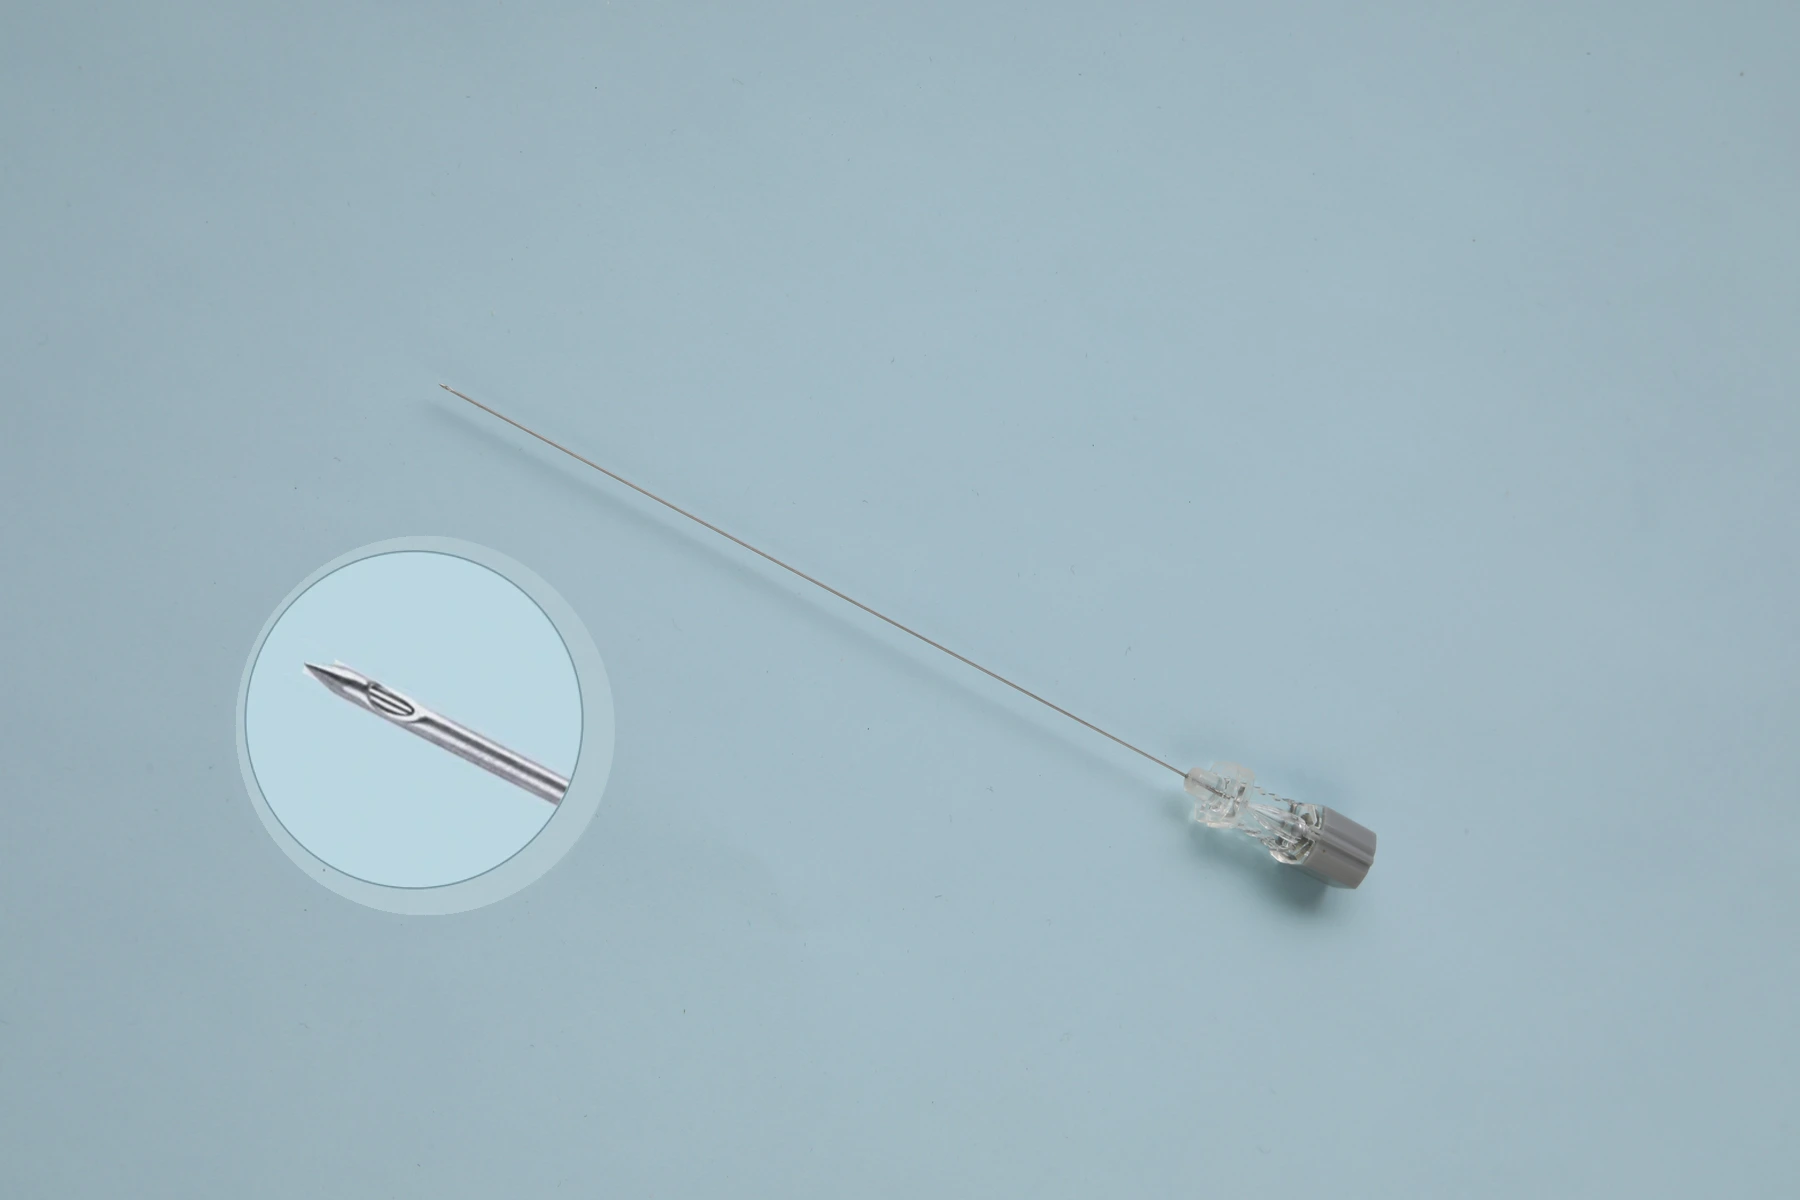
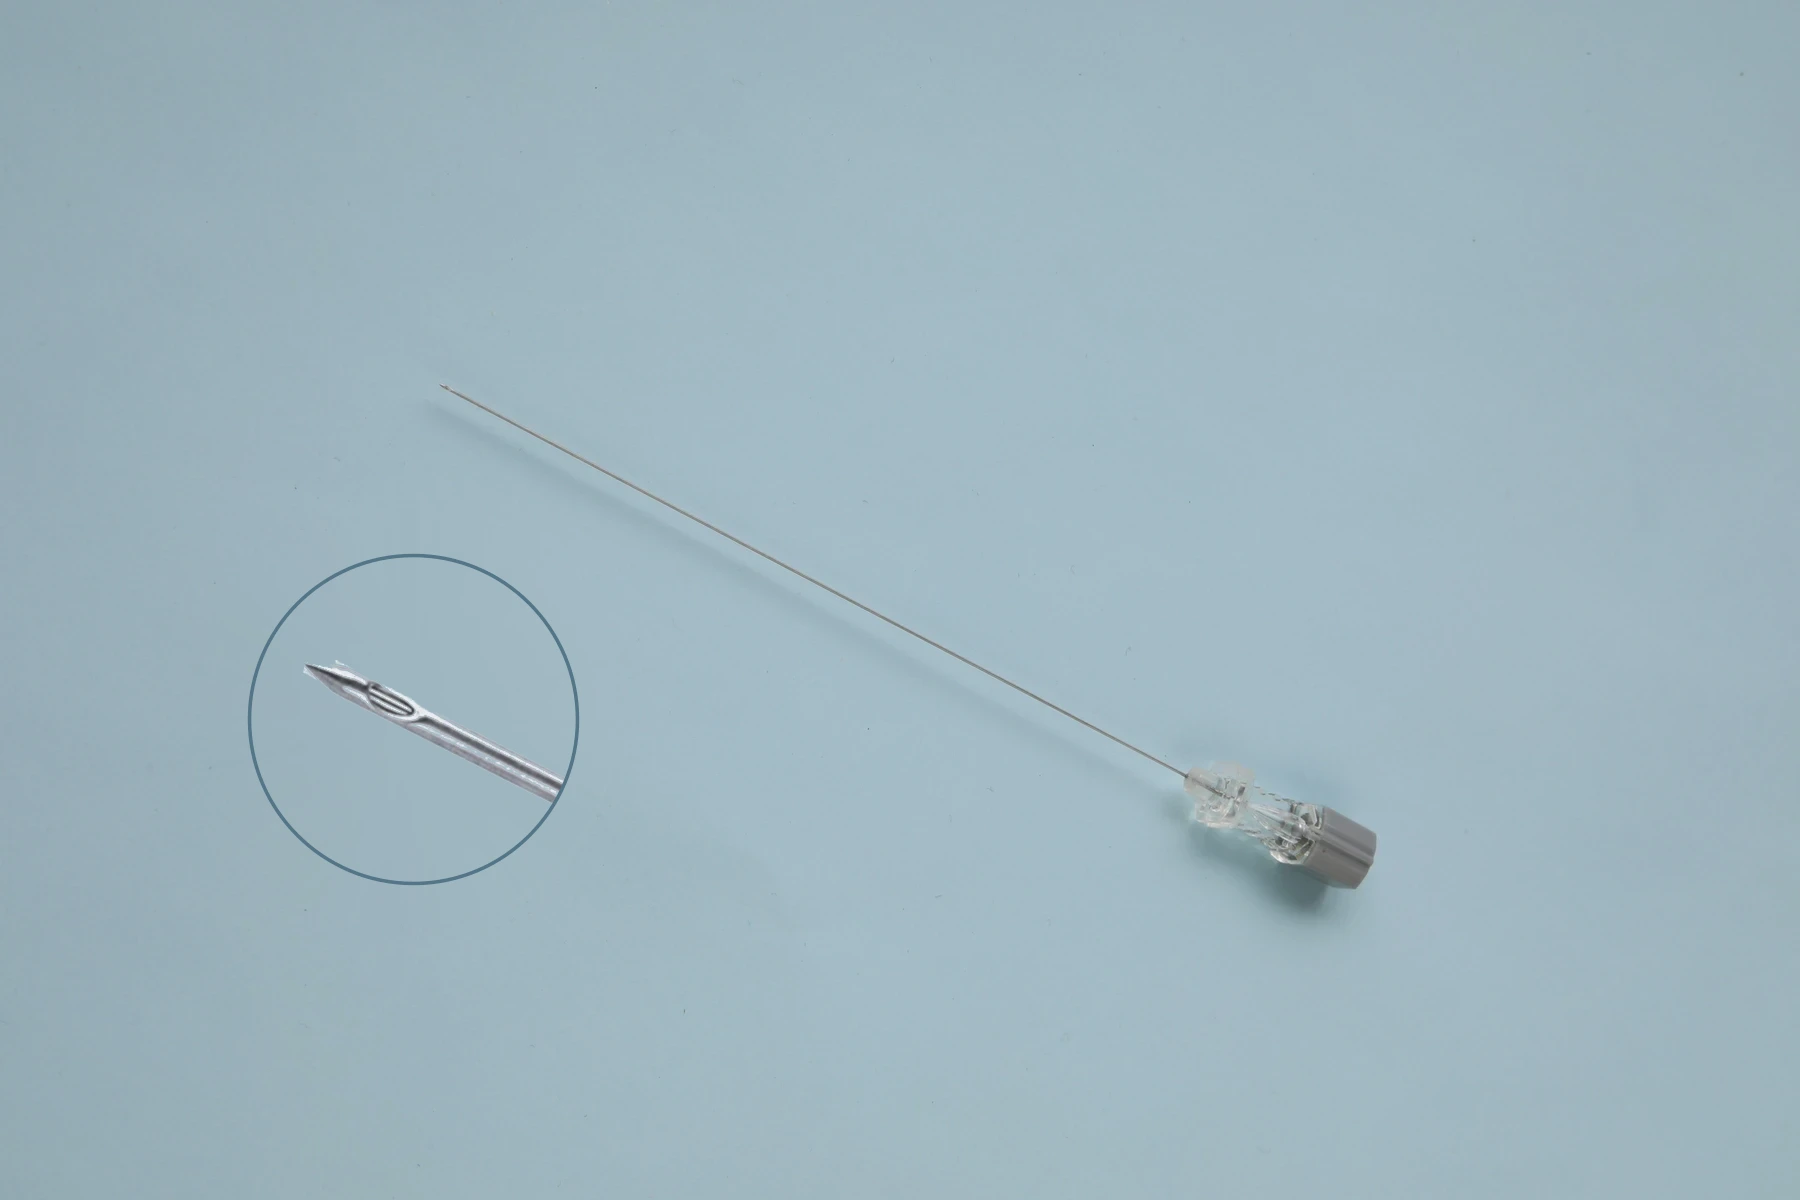
fix: refine Sprotte images, Chinese product/nav names and contact details

Changed region(s): [[0.1244, 0.4625, 0.3422, 0.74]]

diff --git a/lib/meeting-business-copy.ts b/lib/meeting-business-copy.ts
@@ -31,23 +31,24 @@ export const businessCopyZh:Record<string,string>={
  'Single-use Spinal Needle（Quincke Tip）':'一次性使用腰椎针（昆克针尖）',
  'Single-use Spinal Needle(Sprotte Tip)':'一次性使用腰椎针（Sprotte 针尖）',
  'Single-use Epidural Needle （Tuohy Tip）':'一次性使用硬膜外穿刺针（Tuohy 针尖）',
- 'Combined Spinal-Epidural Needle (CSE)':'腰硬联合穿刺针',
- 'Building 1, No. 78 Kangtai Road, Zhujiajiao Town, Qingpu District, Shanghai, China':'中国上海市青浦区朱家角镇康泰路 78 号 1 幢',
+ 'Combined Spinal-Epidural Needle (CSE)':'腰硬联合麻醉套针',
+ 'No. 78 Kangtai Road, Qingpu District, Shanghai, China':'中国上海市青浦区康泰路78号',
+ 'Building 1, No. 78 Kangtai Road, Zhujiajiao Town, Qingpu District, Shanghai, China':'中国上海市青浦区康泰路78号',
  'Industry, product and company information.':'行业、产品与企业资讯。',
  'RF Electrode — K152642':'射频电极 — K152642','RF Cannula — K112231':'射频套管 — K112231',
  'VC-S RF Cannula — K191293':'VC-S 射频套管 — K191293',
  'Spinal & Epidural Needles — K131006':'腰椎针与硬膜外穿刺针 — K131006',
  'EC Certificate':'EC 证书','MDD Certificate Continuation Letter':'MDD 证书延续函',
- 'Bone Marrow Biopsy Components (Type II)':'骨髓活检组件（II 型）',
- 'Bone Marrow Biopsy Components (Type III)':'骨髓活检组件（III 型）',
- 'Rotating Cut Biopsy Components':'旋切活检组件',
+ 'Bone Marrow Biopsy Components (Type II)':'骨髓活检针组件（II 型）',
+ 'Bone Marrow Biopsy Components (Type III)':'骨髓活检针组件（III 型）',
+ 'Rotating Cut Biopsy Components':'旋切式活检针组件',
  'Inquire About This Product →':'咨询此产品 →','Product specifications':'产品规格',
  'Combination part number':'组合品号','Electrode part number':'电极品号','Cannula part number':'套管品号',
  'Electrode diameter':'电极直径','Cannula diameter':'套管直径','Working length (mm)':'工作长度（毫米）',
  'Active tip length (mm)':'活性端长度（毫米）','Tip structure':'针尖结构','Electrode model':'电极型号',
  'Electrode specification':'电极规格','Compatible cannula length (mm)':'适配套管长度（毫米）',
  'Cannula model':'套管型号','Specification':'规格','Nominal working length (mm)':'标称工作长度（毫米）',
- 'OEM Manufacturing':'OEM 成品代工','Branded Medical Needle Products':'品牌医疗针类产品',
+ 'OEM Manufacturing':'定牌生产','Branded Medical Needle Products':'品牌医疗针类产品',
  'Tell us your product or cooperation requirements':'告诉我们您的产品或合作需求',
  'Send your product name or model and describe your requirements.':'请提供产品名称或型号，并说明您的需求。',
  'Manufacturing Technology & Equipment':'生产工艺与设备','Quality Inspection Instruments':'质量检测仪器',
@@ -65,9 +66,9 @@ export const businessCopyZh:Record<string,string>={
  'Every product upholds our brand commitment to compliance and quality':'每一款产品，都承载着我们对合规与品质的承诺',
  'Every OEM project empowers partners with proven technology and production lines':'每一个 OEM 项目，都以成熟技术与产线能力助力合作伙伴',
  'Every batch of custom accessories brings your functional and quality vision to life':'每一批定制配件，都让您的功能与品质设想落地',
- 'Home':'首页','About Us':'关于我们','Branded Products':'品牌产品','OEM':'OEM 成品代工','Custom Accessories':'配件定制','Contact Us':'联系我们',
+ 'Home':'首页','About Us':'关于我们','Branded Products':'品牌产品','OEM':'定牌生产','Custom Accessories':'配件定制','Contact Us':'联系我们',
  'RF Pain Therapy Series':'射频疼痛治疗系列','Neuraxial Anesthesia Series':'椎管内麻醉系列','Interventional Therapy Series':'介入治疗系列',
- 'Bone Marrow Biopsy Series':'骨髓活检系列','Visceral Biopsy Series':'内脏活检系列','Ultrasound Guidance Solutions':'超声引导系列','Tip Structure Solutions':'针尖结构系列','End Structure Solutions':'管端结构系列',
+ 'Bone Marrow Biopsy Series':'骨髓活检系列','Visceral Biopsy Series':'内脏活检系列','Ultrasound Guidance Solutions':'超声引导系列','Tip Structure Solutions':'针尖结构系列','End Structure Solutions':'尾端结构系列',
  'Information':'资讯','Industry Information':'行业资讯','Corporate Information':'企业资讯','Product Information':'产品资讯','All Information':'全部资讯','View Information →':'查看资讯 →',
  'Company Introduction':'企业简介','Qualifications':'资质证书','Manufacturing Equipment & Inspection Instruments':'技术设备、质检仪器','Single-use RF Cannulas':'一次性射频套管',
  [manufacturingIntro]:'生产区域设有装配工作台及用于部分制造工序的设备。装配以人工操作为主，自动化打印设备用于相应生产环节。',

diff --git a/components/site-footer.tsx b/components/site-footer.tsx
@@ -4,4 +4,4 @@ import Link from '@/components/localized-link'
 import {BrandLogo} from '@/components/brand-logo'
 import {ContactDetails} from '@/components/contact-details'
 import {navigation} from '@/lib/site-navigation'
-export function SiteFooter(){const brand=useSiteBrand(),{locale}=useSiteLanguage(),zh=locale.startsWith('zh');return <footer className="feedback-footer border-t border-border bg-brand-blue-deep text-white"><div className="medical-shell py-12"><div className="feedback-footer-grid"><div><BrandLogo size="footer"/><p className="mt-6 max-w-sm leading-7 text-white/85"><SiteText value={brand.address}/></p></div><nav aria-label={zh?'页脚导航':'Footer'}><h2 className="mb-5 font-semibold"><SiteText value="Navigation"/></h2><ul>{navigation.map(item=><li key={item.href}><Link href={item.href}><SiteText value={item.label}/></Link></li>)}</ul></nav><div><h2 className="mb-5 font-semibold"><SiteText value="Contact Us"/></h2><div className="mb-3 grid justify-items-start gap-2"><a href="https://www.shbsmed.com" className="text-[#e1edf4] underline underline-offset-4">www.shbsmed.com</a><a href="https://www.shbsmed.com" aria-label={zh?'公司网站':'Company website'}><img src="/images/brand/website-qr.png" width={112} height={112} alt={zh?'明石医疗网站二维码':'QR code for www.shbsmed.com'} className="block size-28"/></a></div><ContactDetails showAddress={false}/></div></div><p className="mt-10 border-t border-white/20 pt-6 text-sm text-white/80">&copy; {new Date().getFullYear()} {brand.legalNameEn}{zh?'。版权所有。':'. All rights reserved.'}</p></div></footer>}
+export function SiteFooter(){const brand=useSiteBrand(),{locale}=useSiteLanguage(),zh=locale.startsWith('zh');return <footer className="feedback-footer border-t border-border bg-brand-blue-deep text-white"><div className="medical-shell py-12"><div className="feedback-footer-grid"><div><BrandLogo size="footer"/><p className="mt-6 max-w-sm leading-7 text-white/85"><SiteText value={brand.address}/></p></div><nav aria-label={zh?'页脚导航':'Footer'}><h2 className="mb-5 font-semibold"><SiteText value="Navigation"/></h2><ul>{navigation.map(item=><li key={item.href}><Link href={item.href}><SiteText value={item.label}/></Link></li>)}</ul></nav><div><h2 className="mb-5 font-semibold"><SiteText value="Contact Us"/></h2><div className="mb-3 grid justify-items-start gap-2"><a href="https://www.shbsmed.com" className="text-[#e1edf4] underline underline-offset-4">www.shbsmed.com</a><a href="https://www.shbsmed.com" aria-label={zh?'公司网站':'Company website'}><img src="/images/brand/website-qr.png" width={112} height={112} alt={zh?'明石医疗网站二维码':'QR code for www.shbsmed.com'} className="block size-28"/></a></div><ContactDetails showAddress={false} showWeb={false}/></div></div><p className="mt-10 border-t border-white/20 pt-6 text-sm text-white/80">&copy; {new Date().getFullYear()} {brand.legalNameEn}{zh?'。版权所有。':'. All rights reserved.'}</p></div></footer>}

diff --git a/lib/medical-products.ts b/lib/medical-products.ts
@@ -14,7 +14,7 @@ const previewNamesZh:Record<string,string>={
  'straight-sharp-rf-cannulas':'一次性使用射频套管（直尖形）','curved-sharp-rf-cannulas':'一次性使用射频套管（弯尖形）',
  'curved-blunt-rf-cannulas':'一次性使用射频套管（弯钝形）','side-port-rf-cannulas':'一次性使用射频套管（侧孔弯尖形）',
  'quincke-spinal-needle':'一次性使用腰椎针（昆克针尖）','sprotte-spinal-needle':'一次性使用腰椎针（Sprotte 针尖）',
- 'epidural-needle':'一次性使用硬膜外穿刺针（Tuohy 针尖）','combined-spinal-epidural-needle':'腰硬联合穿刺针',
+ 'epidural-needle':'一次性使用硬膜外穿刺针（Tuohy 针尖）','combined-spinal-epidural-needle':'腰硬联合麻醉套针',
 }
 export const getMedicalProducts=cache(async(language?:string):Promise<MedicalProduct[]>=>{
  const requestedLocale=language||await currentLocale()
@@ -65,5 +65,5 @@ export const getContractComponents=cache(async(language?:string)=>{
  const groups=(categories||[]).filter(c=>inCategoryBranch(c,categories||[],'contract-components'))
  const existing=(products||[]).filter(p=>groups.some(g=>g.slug===p.category_slug)).map(p=>{const group=groups.find(g=>g.slug===p.category_slug)!;return{slug:p.slug,name:localized(p.name_i18n,locale)||p.name,image:p.image_url,description:localized(p.description_i18n,locale)||p.description||'',group:localized(group.name_i18n,locale)||group.name,application:typeof p.extra_data?.application_category==='string'?p.extra_data.application_category:undefined}})
  const refined=new Set(['triangular-echogenic-surface','mesh-echogenic-surface','matte-echogenic-surface','back-hole-tip','pencil-point','ball-tip-side-hole','flared-end','reduced-end','knurled-end'])
- return (['preview','production'].includes(process.env.VERCEL_ENV ?? ''))?[...existing.map(p=>({...p,image:refined.has(p.slug)?`/images/feedback-20261112/accessory-edges/${p.slug}.webp`:p.image,name:(p.application==='bone-marrow'||/bone.marrow/i.test(p.name))&&!p.name.includes('(Type I)')?p.name+' (Type I)':p.name})),...additionalComponents]:existing
+ return (['preview','production'].includes(process.env.VERCEL_ENV ?? ''))?[...existing.map(p=>({...p,image:refined.has(p.slug)?`/images/feedback-20261112/accessory-edges/${p.slug}.webp`:p.image,name:!locale.startsWith('zh')&&(p.application==='bone-marrow'||/bone.marrow/i.test(p.name))&&!p.name.includes('(Type I)')?p.name+' (Type I)':p.name})),...additionalComponents]:existing
 })

diff --git a/components/contact-details.tsx b/components/contact-details.tsx
@@ -1,6 +1,8 @@
 'use client'
-import {useSiteBrand,SiteText,SiteImage} from '@/components/site-copy'
-export function ContactDetails({showAddress=true}:{showAddress?:boolean}){
- const brand=useSiteBrand()
- return <address className="contact-details not-italic">{showAddress&&<p><SiteText value={brand.address}/></p>}<p><span><SiteText value="Email"/>: </span><a href={`mailto:${brand.email}`}>{brand.email}</a></p>{brand.phone&&<p><span><SiteText value="Telephone"/>: </span><a href={`tel:${brand.phone.replace(/[^+\d]/g,'')}`}>{brand.phone}</a></p>}{brand.mobile&&<p><span><SiteText value="Mobile"/>: </span><a href={`tel:${brand.mobile.replace(/[^+\d]/g,'')}`}>{brand.mobile}</a></p>}{brand.wechatQr&&<figure><SiteImage src={brand.wechatQr} alt="WeChat QR code" className="wechat-qr"/><figcaption><SiteText value="WeChat"/></figcaption></figure>}</address>
+import {useSiteBrand,useSiteLanguage,SiteText,SiteImage} from '@/components/site-copy'
+export function ContactDetails({showAddress=true,showWeb=true}:{showAddress?:boolean;showWeb?:boolean}){
+ const brand=useSiteBrand(),{locale}=useSiteLanguage(),zh=locale.startsWith('zh')
+ const email=zh?'z13918734159@163.com':brand.email
+ const mobile=zh?'13482187255':brand.mobile
+ return <address className="contact-details not-italic">{showAddress&&<p><SiteText value={brand.address}/></p>}{mobile&&<p><span>Mobile: </span><a href={`tel:${mobile.replace(/[^+\d]/g,'')}`}>{mobile}</a></p>}<p><span>Email: </span><a href={`mailto:${email}`}>{email}</a></p>{zh&&showWeb&&<p><span>Web: </span><a href="https://www.shbsmed.com">www.shbsmed.com</a></p>}{brand.phone&&<p><span><SiteText value="Telephone"/>: </span><a href={`tel:${brand.phone.replace(/[^+\d]/g,'')}`}>{brand.phone}</a></p>}{brand.wechatQr&&<figure><SiteImage src={brand.wechatQr} alt="WeChat QR code" className="wechat-qr"/><figcaption><SiteText value="WeChat"/></figcaption></figure>}</address>
 }

diff --git a/components/enquiry-form.tsx b/components/enquiry-form.tsx
@@ -68,7 +68,7 @@ export function EnquiryForm({
           <select id="inquiryType" name="inquiryType" required defaultValue={defaultType==='ODM'?'OEM':inquiryTypes.includes(defaultType || '') ? defaultType : ''}
             className="h-11 w-full rounded-md border border-input bg-background px-3 text-sm focus-visible:outline-2 focus-visible:outline-offset-2 focus-visible:outline-brand-blue">
             <option value="" disabled>{t('Select an inquiry type','请选择询盘类型')}</option>
-            {inquiryTypes.map(type => <option key={type} value={type}>{zh?({'Product purchase':'产品采购','OEM':'OEM 成品代工','Contract manufacturing':'配件代工'} as Record<string,string>)[type]||type:type}</option>)}
+            {inquiryTypes.map(type => <option key={type} value={type}>{zh?({'Product purchase':'产品采购','OEM':'定牌生产','Contract manufacturing':'配件代工'} as Record<string,string>)[type]||type:type}</option>)}
           </select>
         </Field>
 

diff --git a/app/globals.css b/app/globals.css
@@ -562,6 +562,7 @@
 /* Customer feedback 261106: equal image stages, full products, left captions. */
 .feedback-product-grid .medical-card-image:has(img){height:280px;aspect-ratio:auto;background:#bbd6e1}
 .feedback-product-grid .medical-card-image img{display:block;width:100%;height:100%;object-fit:contain}
+.feedback-product-grid .medical-card-image img[src*='sprotte-card']{object-fit:cover}
 .feedback-series-section .meeting-gallery figcaption{text-align:left}
 .page-back-button{position:fixed;right:16px;bottom:max(20px,env(safe-area-inset-bottom));z-index:40;display:flex;flex-direction:column;justify-content:center;align-items:center;gap:2px;width:54px;height:54px;padding:0;border:1px solid #d8dfe3;border-radius:50%;background:#fff;color:#173e53;font-size:11px;line-height:14px;box-shadow:0 2px 8px #0000000d;cursor:pointer}
 .page-back-button:hover{background:#f1f7f9}

diff --git a/lib/data/company.ts b/lib/data/company.ts
@@ -5,7 +5,7 @@ export const company = {
   legalNameZh: "上海明石医疗科技有限公司",
   brandName: "Brightstone Medical",
   founded: "December 2015",
-  address: "Building 1, No. 78 Kangtai Road, Zhujiajiao Town, Qingpu District, Shanghai, China",
+  address: "No. 78 Kangtai Road, Qingpu District, Shanghai, China",
   domain: "shbsmed.com",
   email: "info@shbsmed.com",
   facilityArea: "2,000 sqm",
